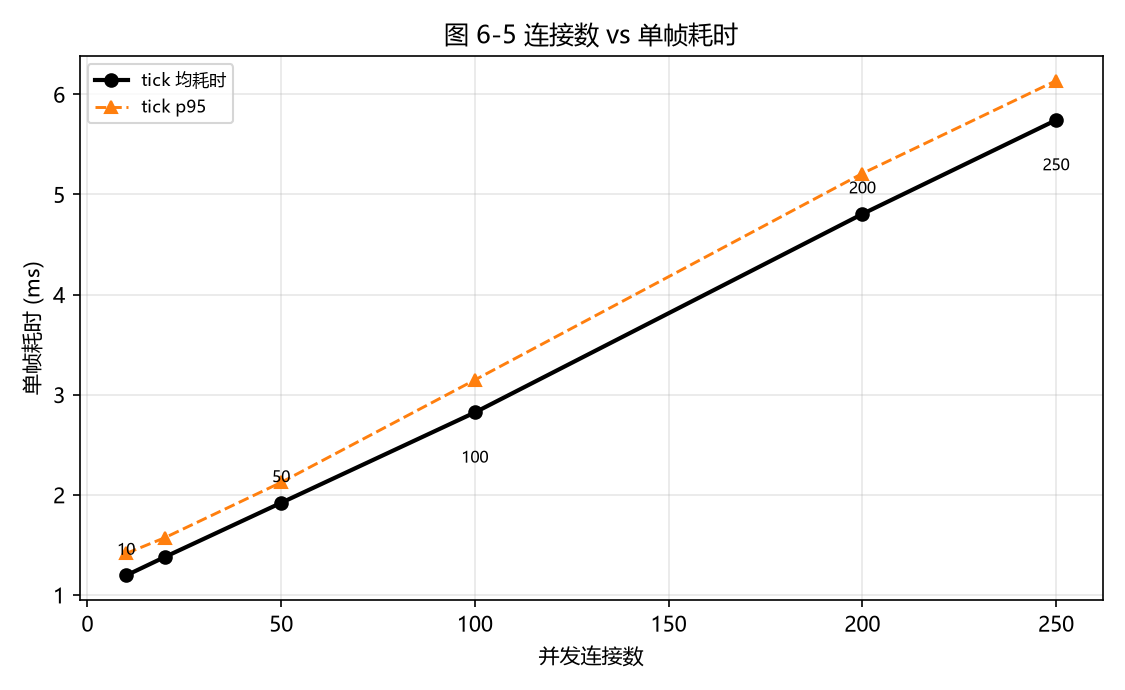
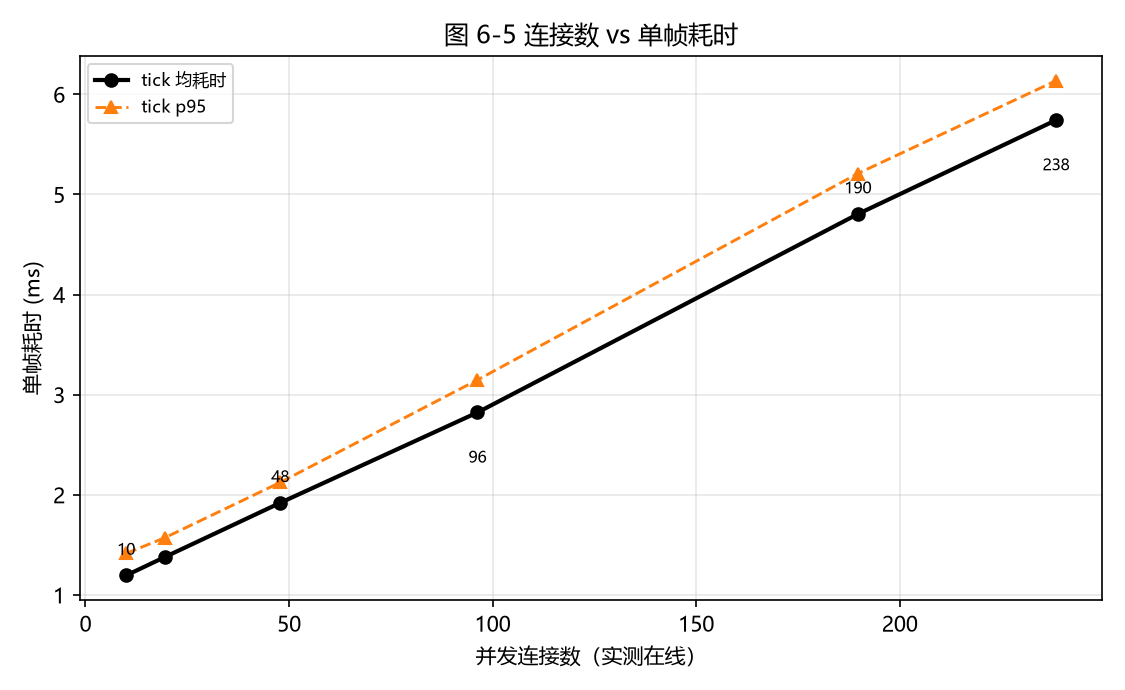
fix: E2 图横轴改用实测在线连接数（请求 250 实际只有 238 在线）
机器人全跑在一个 Python 进程里，受 GIL 限制，250 个 asyncio 客户端心跳会延迟，
超过服务端 15 s 超时就被踢掉 —— 请求 250 实际只有 238 在线（50 档 48、100 档 96、200 档 190）。

用请求值当横轴的问题：点会站在它**并没有达到**的位置上，与其他档位比较时斜率也是错的。
现在横轴改为实测在线数（10 / 20 / 48 / 96 / 190 / 238），三张图与图 6-6 的 RTT 点位置一致，
避免同一档在两张图上站在不同 x 处让人以为数据打架。

新增 e2_actual_clients() 并在其 docstring 里写明缘由；图 6-6 的 RTT 汇总按文件名里的请求值
归档，再用「请求 -> 实测」映射换到横轴上。补 3 个单元测试。

diff --git a/tools/plot.py b/tools/plot.py
@@ -727,6 +727,23 @@ def parse_e2_clients(level: str) -> int | None:
     return int(match.group(1)) if match else None
 
 
+def e2_actual_clients(item: dict, requested: int) -> float:
+    """横轴用**实测在线数**，不是请求的连接数。
+
+    为什么必须这样（2026-10-30 踩到）：机器人全跑在一个 Python 进程里，受 GIL 限制，
+    250 个 asyncio 客户端心跳会延迟，超过服务端 15 s 超时就被踢掉 ——
+    请求 250 实际只有 238 在线。
+
+    如果用请求值当横轴，图上的点会**站在一个它并没有达到的位置**上，
+    和其他档位比较时斜率也是错的。宁可横轴出现 238 这种"不圆整"的数，
+    也不能拿没达到的并发数去标定性能。
+    """
+    actual = item.get("players")
+    if actual is None or actual <= 0:
+        return float(requested)
+    return float(actual)
+
+
 def load_e2_rtt(run_dir: str | Path, skip_clients: set[int] | None = None) -> dict[int, dict]:
     """从机器人汇总里取 RTT 分位数，按连接数归档并对多轮取平均。
 
@@ -787,31 +804,32 @@ def plot_e2(
     if not HAVE_MPL:
         raise RuntimeError("需要 matplotlib 才能出图：pip install matplotlib")
 
-    points: list[tuple[int, dict]] = []
+    points: list[tuple[float, int, dict]] = []
     for item in series:
         if item["level"] in skip_levels:
             # 服务端崩过的档位，指标行是被截断的样本：平均值反而变小，
             # 画上去会让曲线在末端"突然变轻松"，是**最误导人**的形状
             continue
-        clients = parse_e2_clients(item["level"])
-        if clients is None:
+        requested = parse_e2_clients(item["level"])
+        if requested is None:
             continue
-        points.append((clients, item))
+        points.append((e2_actual_clients(item, requested), requested, item))
     if not points:
         raise ValueError(
             "没有可识别的 E2 数据（场景名需形如 E2-c10-r1）；"
             "先用 tools/loadtest.py 跑一轮"
         )
-    points.sort(key=lambda pair: pair[0])
+    points.sort(key=lambda triple: triple[0])
 
     out_dir = Path(out_dir)
     out_dir.mkdir(parents=True, exist_ok=True)
     written: list[Path] = []
 
-    xs = [c for c, _ in points]
-    tick = [p["tick_ms_avg"] for _, p in points]
-    cpu = [p["cpu_percent"] for _, p in points]
-    mem = [p["mem_mb"] for _, p in points]
+    xs = [actual for actual, _, _ in points]
+    tick = [p["tick_ms_avg"] for _, _, p in points]
+    cpu = [p["cpu_percent"] for _, _, p in points]
+    mem = [p["mem_mb"] for _, _, p in points]
+    x_label = "并发连接数（实测在线）"
 
     # ---- 图 6-4：连接数 vs CPU / 内存（双轴）----
     #
@@ -820,7 +838,7 @@ def plot_e2(
     # 那是把两个独立的物理量强行混为一谈。
     fig, ax = plt.subplots(figsize=(7.5, 4.8))
     ax.plot(xs, cpu, marker="o", color="tab:red", linewidth=1.8, label="CPU 单核占用")
-    ax.set_xlabel("并发连接数")
+    ax.set_xlabel(x_label)
     ax.set_ylabel("CPU 占用 (% of one core)", color="tab:red")
     ax.tick_params(axis="y", labelcolor="tab:red")
     ax.grid(alpha=0.3)
@@ -834,7 +852,7 @@ def plot_e2(
     ax.set_title("图 6-4 连接数 vs CPU / 内存")
     lines = ax.get_lines() + ax2.get_lines()
     ax.legend(lines, [ln.get_label() for ln in lines], fontsize=8, loc="upper left")
-    _annotate(ax, xs, cpu, [f"{c}" for c in xs])
+    _annotate(ax, xs, cpu, [f"{x:.0f}" for x in xs])
     path = out_dir / "fig6-04-clients-vs-cpu-mem.png"
     fig.tight_layout()
     fig.savefig(path, dpi=150)
@@ -843,11 +861,11 @@ def plot_e2(
 
     # ---- 图 6-5：连接数 vs tick 耗时 ----
     fig, ax = plt.subplots(figsize=(7.5, 4.6))
-    p95 = [p["tick_ms_p95"] for _, p in points]
+    p95 = [p["tick_ms_p95"] for _, _, p in points]
     ax.plot(xs, tick, marker="o", color="black", linewidth=2, label="tick 均耗时")
     ax.plot(xs, p95, marker="^", color="tab:orange", linewidth=1.4,
             linestyle="--", label="tick p95")
-    ax.set_xlabel("并发连接数")
+    ax.set_xlabel(x_label)
     ax.set_ylabel("单帧耗时 (ms)")
     ax.set_title("图 6-5 连接数 vs 单帧耗时")
     ax.grid(alpha=0.3)
@@ -856,7 +874,7 @@ def plot_e2(
         ax.axhline(TICK_BUDGET_MS, color="crimson", linestyle=":",
                    linewidth=1, label=f"tick 预算 {TICK_BUDGET_MS:.0f} ms（20 Hz）")
     ax.legend(fontsize=8)
-    _annotate(ax, xs, tick, [f"{c}" for c in xs])
+    _annotate(ax, xs, tick, [f"{x:.0f}" for x in xs])
     path = out_dir / "fig6-05-clients-vs-tick.png"
     fig.tight_layout()
     fig.savefig(path, dpi=150)
@@ -871,7 +889,12 @@ def plot_e2(
                     if parse_e2_clients(lv) is not None}
     rtt = load_e2_rtt(run_dir, skip_clients=skip_clients)
     if rtt:
+        # RTT 汇总按**请求的连接数**归档（文件名里只有请求值），
+        # 但横轴必须换成**实测在线数** —— 与图 6-4/6-5 保持一致，
+        # 否则同一档在两张图上会站在不同的 x 位置，读者会以为数据打架
+        to_actual = {requested: actual for actual, requested, _ in points}
         rx = sorted(rtt)
+        rxs = [to_actual.get(c, float(c)) for c in rx]
         fig, ax = plt.subplots(figsize=(7.5, 4.6))
         for key, label, color, marker in (
             ("p50", "RTT P50", "tab:green", "o"),
@@ -881,9 +904,9 @@ def plot_e2(
             ys = [rtt[c].get(key) for c in rx]
             if all(v is None for v in ys):
                 continue
-            ax.plot(rx, [v if v is not None else float("nan") for v in ys],
+            ax.plot(rxs, [v if v is not None else float("nan") for v in ys],
                     marker=marker, color=color, linewidth=1.5, label=label)
-        ax.set_xlabel("并发连接数")
+        ax.set_xlabel(x_label)
         ax.set_ylabel("心跳 RTT (ms)")
         ax.set_title("图 6-6 RTT 分位数随连接数的变化")
         ax.grid(alpha=0.3)

diff --git a/tests/test_plot_e2.py b/tests/test_plot_e2.py
@@ -1,4 +1,4 @@
-"""E2 出图（图 6-4 / 6-5 / 6-6）的测试。
+"""E2 出图（图 6-4 / 6-5 / 6-6）的测试。
 
 重点不是"图好看不好看"，而是三件容易错的事：
 
@@ -15,6 +15,7 @@ from pathlib import Path
 
 from tools.plot import (
     HAVE_MPL,
+    e2_actual_clients,
     load_e2_rtt,
     parse_e2_clients,
     plot_e2,
@@ -52,6 +53,24 @@ class ParseClientsTest(unittest.TestCase):
 
     def test_zero_is_allowed(self):
         self.assertEqual(parse_e2_clients("E2-c0"), 0)
+
+
+class ActualClientsTest(unittest.TestCase):
+    """横轴必须用**实测在线数**，不能用请求值。
+
+    真踩过：请求 250 个机器人，受 GIL 限制只有 238 个在线（心跳超时被踢）。
+    如果横轴写 250，这个点就站在它没达到的位置上，斜率也是错的。
+    """
+
+    def test_prefers_measured_players(self):
+        self.assertEqual(e2_actual_clients({"players": 238}, 250), 238.0)
+
+    def test_falls_back_to_requested(self):
+        self.assertEqual(e2_actual_clients({"players": 0}, 250), 250.0)
+        self.assertEqual(e2_actual_clients({}, 100), 100.0)
+
+    def test_falls_back_on_missing_key(self):
+        self.assertEqual(e2_actual_clients({"players": None}, 50), 50.0)
 
 
 class LoadRttTest(unittest.TestCase):

diff --git a/docs/experiments/E2-并发能力测试.md b/docs/experiments/E2-并发能力测试.md
@@ -1,4 +1,4 @@
-# 实验记录：E2 · 并发能力测试
+# 实验记录：E2 · 并发能力测试
 
 > 模板见 `docs/03-实验清单.md §7`。对应论文第 6.3 节，产出图 6-4 / 6-5 / 6-6。
 > 跑批脚本 `tools/loadtest.py`，出图 `tools/plot.py --figures e2`。
@@ -23,14 +23,14 @@
 
 **全部 2 轮均值**（`tools/plot.py` 输出）：
 
-| 连接数 | tick 均 (ms) | 碰撞 (ms) | 通信 (ms) | 快照 (B) | 带宽/客户端 (KB/s) | CPU (% 单核) | 内存 (MB) |
+| 请求 → 实测在线 | tick 均 (ms) | 碰撞 (ms) | 通信 (ms) | 快照 (B) | 带宽/客户端 (KB/s) | CPU (% 单核) | 内存 (MB) |
 |---|---|---|---|---|---|---|---|
-| 10 | **1.195** | 0.464 | 0.588 | 1993 | 39.2 | **2.6** | 25.4 |
-| 20 | 1.379 | 0.466 | 0.765 | 2099 | 41.6 | 2.3 | 26.4 |
-| 50 | 1.920 | 0.459 | 1.295 | 2413 | 48.0 | 4.2 | 27.9 |
-| 100 | 2.823 | 0.465 | 2.148 | 2948 | 58.6 | 9.8 | 32.3 |
-| 200 | 4.805 | 0.456 | 4.070 | 3985 | 79.9 | 20.2 | 40.0 |
-| **250** | **5.743** | 0.450 | **4.984** | 4523 | 90.4 | **24.9** | 44.5 |
+| 10 → **10** | **1.195** | 0.464 | 0.588 | 1993 | 39.2 | **2.6** | 25.4 |
+| 20 → 20 | 1.379 | 0.466 | 0.765 | 2099 | 41.6 | 2.3 | 26.4 |
+| 50 → 48 | 1.920 | 0.459 | 1.295 | 2413 | 48.0 | 4.2 | 27.9 |
+| 100 → 96 | 2.823 | 0.465 | 2.148 | 2948 | 58.6 | 9.8 | 32.3 |
+| 200 → 190 | 4.805 | 0.456 | 4.070 | 3985 | 79.9 | 20.2 | 40.0 |
+| 250 → **238** | **5.743** | 0.450 | **4.984** | 4523 | 90.4 | **24.9** | 44.5 |
 | ~~300~~ | ❌ **崩溃** | — | — | — | — | — | — |
 
 RTT（心跳往返，来自机器人汇总）：
@@ -115,7 +115,7 @@ protocol.framing.ProtocolError: 玩家 数量超出上限：257 > 255
 | 10 | 10 | 0 |
 | 20 | 20 | 0 |
 | 50 | 48 | 2 |
-| 100 | 95 | 5 |
+| 100 | 96 | 4 |
 | 200 | 190 | 10 |
 | 250 | 238 | **12** |
 
@@ -189,6 +189,10 @@ protocol.framing.ProtocolError: 玩家 数量超出上限：257 > 255
 ```
 
 > `--skip-levels E2-c300` 不能省：该档服务端崩溃，数据被截断。
+
+> **横轴口径**：图 6-4/6-5/6-6 的横轴是**实测在线连接数**（10 / 20 / 48 / 96 / 190 / 238），
+> 不是请求的连接数（10 / 20 / 50 / 100 / 200 / 250）—— 因为机器人端受 GIL 限制，
+> 高并发时达不到请求值（见 §4.2）。用请求值会让点站在它并未达到的位置上。
 
 ---
 
